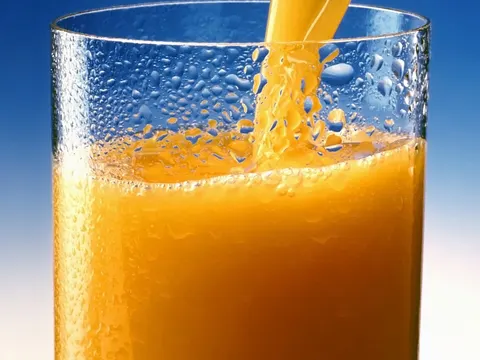
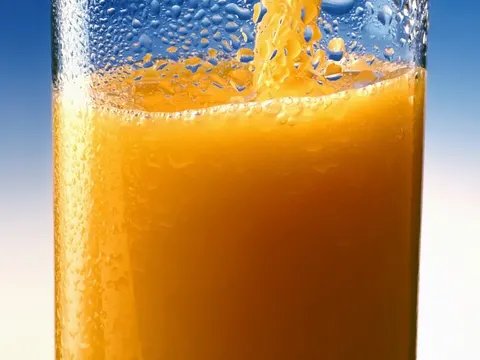
Quiosque: recorte da foto do suco e título da demonstração

diff --git a/src/app/quiosque/page.tsx b/src/app/quiosque/page.tsx
@@ -15,7 +15,7 @@ export default async function QuiosquePage(props: { searchParams: Promise<{ demo
     return (
       <Quiosque
         demo
-        caixa="Lanchonete (exemplo)"
+        caixa="Exemplo"
         cashierId={0}
         produtos={[
           { id: 1, title: "Café coado", description: "Copo de 200 ml", price: "4.00", stock: 30 },
